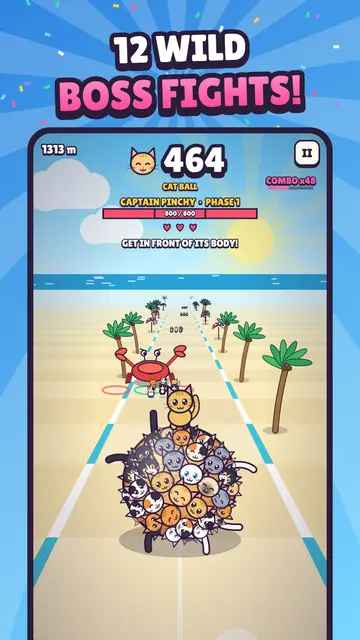
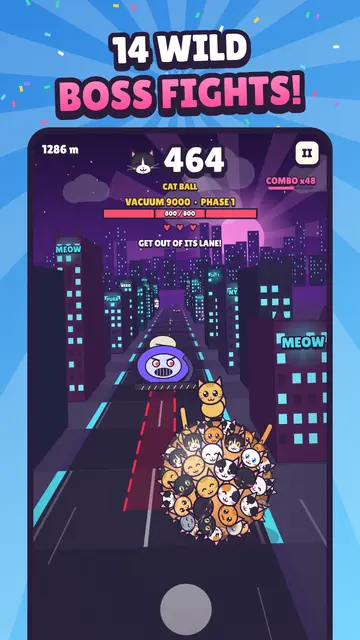
Tester page: 14 bosses, 11 worlds, new screenshots

diff --git a/meowballrush/index.html b/meowballrush/index.html
@@ -160,8 +160,8 @@
   <p class="lead">Roll up a giant ball of cats, smash walls and beat wild bosses. I need testers before it can launch on Google Play. It takes about a minute. Thank you!</p>
 
   <div class="stats">
-    <div class="stat"><b data-count="12">0</b>wild bosses</div>
-    <div class="stat"><b data-count="8">0</b>crazy worlds</div>
+    <div class="stat"><b data-count="14">0</b>wild bosses</div>
+    <div class="stat"><b data-count="11">0</b>crazy worlds</div>
     <div class="stat"><b data-count="20">0</b>hero cats</div>
   </div>
 
@@ -197,7 +197,7 @@
   <div class="shots-title">Sneak peek 👀</div>
   <div class="shots">
     <img src="shot-1.webp" alt="A giant ball of cats rolling down a candy road" loading="lazy">
-    <img src="shot-2.webp" alt="Boss fight against a giant crab" loading="lazy">
+    <img src="shot-2.webp" alt="Boss fight against Vacuum 9000 in Neon Nekotown" loading="lazy">
     <img src="shot-3.webp" alt="Picking the best gate and smashing walls" loading="lazy">
     <img src="shot-4.webp" alt="Rainbow catnip frenzy" loading="lazy">
     <img src="shot-5.webp" alt="Jumping a ramp to a new world" loading="lazy">
